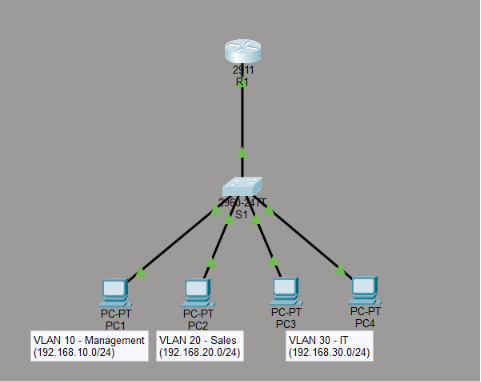
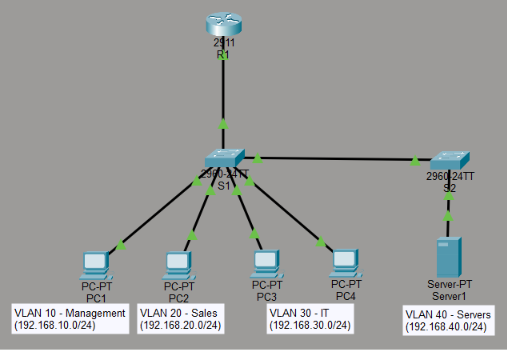
Enhance network documentation with server segment expansion, security policies, and test results for VLAN 40 access control

diff --git a/docs/test-result.md b/docs/test-result.md
@@ -11,3 +11,27 @@
 
 ## ACL Explanation
 ACL 100 is applied inbound on G0/0.20 (Sales subinterface). It denies all IP traffic from 192.168.20.0/24 to 192.168.10.0/24, then permits everything else. This prevents Sales from accessing Management while allowing all other inter-VLAN communication.
+
+## Secret Mission - Server Segment Isolation Tests
+
+This section documents the verification of the secure server segment (VLAN 40) access policies enforced by Access Control List 110 on R1.
+
+### 1. IT Department (VLAN 30) to Server1 Ping Test
+*   **Source**: PC3 (192.168.30.11)
+*   **Destination**: Server1 (192.168.40.100)
+*   **Expected Result**: Successful (Pings allowed by catch-all permit rule)
+*   **Actual Result**: Success (0% packet loss)
+
+### 2. IT Department (VLAN 30) to Server1 SSH Verification (Port 22)
+*   **Source**: PC3 (192.168.30.11)
+*   **Destination**: Server1 (192.168.40.100)
+*   **Command**: `ssh -l admin 192.168.40.100`
+*   **Expected Result**: Connection reached Server1 and was refused by the host itself (indicating the ACL successfully permitted the transit traffic).
+*   **Actual Result**: `% Connection refused by remote host` (Instant return)
+
+### 3. Sales Department (VLAN 20) to Server1 SSH Block (Port 22)
+*   **Source**: PC2 (192.168.20.11)
+*   **Destination**: Server1 (192.168.40.100)
+*   **Command**: `ssh -l admin 192.168.40.100`
+*   **Expected Result**: Dropped at R1 outbound interface (Connection timeout)
+*   **Actual Result**: Connection timed out (Fails cleanly as expected)

diff --git a/README.md b/README.md
@@ -45,10 +45,26 @@ See [docs/ip-addressing-table.md](docs/ip-addressing-table.md) for the complete 
 
 See [docs/test-results.md](docs/test-results.md) for detailed test documentation.
 
+## 🚀 Network Expansion & Security Update (Secret Mission)
+
+To simulate a realistic, scaling enterprise network, the topology has been expanded beyond a single switch to include a dedicated server segment and a multi-switch campus backbone.
+
+### Key Enhancements:
+*   **Multi-Switch Campus Infrastructure**: Added a second Catalyst 2960 switch (**S2**) connected to **S1** via a high-speed **GigabitEthernet trunk link** (802.1Q). This backbone aggregation allows VLAN traffic to transition seamlessly between physical switches.
+*   **Dedicated Server Segment (VLAN 40)**: Created an isolated subnet (**192.168.40.0/24**) to host **Server1** (Static IP: `192.168.40.100`), representing corporate databases and centralized management services.
+*   **Advanced Traffic Control via Extended ACLs**: Implemented **ACL 110** applied outbound on router **R1**'s `GigabitEthernet0/0.40` subinterface to establish strict management boundaries.
+
+### Security Policies Enforced:
+1.  **IT Management Only**: Only hosts originating from the **IT Subnet (VLAN 30)** are permitted to establish remote administrative sessions (**SSH on TCP Port 22**) to the server segment.
+2.  **Unauthorized Access Dropped**: All other networks (Sales/VLAN 20 and Management/VLAN 10) are explicitly blocked from initiating SSH traffic to Server1 (resulting in connection timeouts).
+3.  **Diagnostic Path Open**: General IP traffic (such as ICMP Pings) remains permitted across all VLANs to allow seamless network diagnostics and connection verification.
+
 ## What I Learned
 - How to design an IP addressing scheme using private address space
 - How VLANs segment broadcast domains and improve security
 - How Router-on-a-Stick uses subinterfaces and 802.1Q to route between VLANs
+- How to scale networks beyond a single switch using inter-switch trunking (802.1Q)
 - How DHCP automates IP assignment across multiple subnets
-- How extended ACLs filter traffic based on source and destination
+- How extended ACLs filter traffic based on source, destination, and Layer 4 protocols (such as TCP Port 22 for SSH)
+- How to troubleshoot and diagnose packet flows, specifically the critical logic of inbound vs. outbound ACL placement on subinterfaces
 - The importance of network documentation for troubleshooting and collaboration

diff --git a/docs/ip-addressing-table.md b/docs/ip-addressing-table.md
@@ -13,8 +13,12 @@
 | R1 | G0/0.10 | 192.168.10.1 | 255.255.255.0 | N/A | 10 |
 | R1 | G0/0.20 | 192.168.20.1 | 255.255.255.0 | N/A | 20 |
 | R1 | G0/0.30 | 192.168.30.1 | 255.255.255.0 | N/A | 30 |
+| R1 | G0/0.40 | 192.168.40.1 | 255.255.255.0 | N/A | 40 |
 | S1 | VLAN 1 | N/A | N/A | N/A | 1 |
+| S2 | VLAN 1 (Mgt) | 192.168.40.2 | 255.255.255.0 | 192.168.40.1 | 40 |
+| Server1 | NIC | 192.168.40.100 | 255.255.255.0 | 192.168.40.1 | 40 |
 | PC1-Management | NIC | DHCP (192.168.10.11+) | 255.255.255.0 | 192.168.10.1 | 10 |
 | PC2-Sales | NIC | DHCP (192.168.20.11+) | 255.255.255.0 | 192.168.20.1 | 20 |
 | PC3-IT | NIC | DHCP (192.168.30.11+) | 255.255.255.0 | 192.168.30.1 | 30 |
 | PC4-IT | NIC | DHCP (192.168.30.12+) | 255.255.255.0 | 192.168.30.1 | 30 |
+| Device | Interface | IP Address | Subnet Mask | Default Gateway | VLAN |